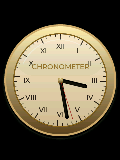
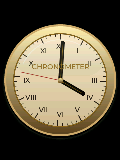
Style analog clock hands by skin

Changed region(s): [[0.3, 0.25, 0.725, 0.75], [0.175, 0.4375, 0.275, 0.4688], [0.6, 0.7188, 0.625, 0.75]]

diff --git a/src/examples/analog_clock_lvgl.py b/src/examples/analog_clock_lvgl.py
@@ -42,6 +42,7 @@ BUILTIN_SKINS = {
         "hands": 0x17100B,
         "second": 0x9E1D18,
         "accent": 0x8A651E,
+        "hand_style": "dauphine",
         "numerals": "roman",
         "brand": "CHRONOMETER",
     },
@@ -57,6 +58,7 @@ BUILTIN_SKINS = {
         "hands": 0xF4FFF8,
         "second": 0xFF6B24,
         "accent": 0x42D6B5,
+        "hand_style": "diver",
         "numerals": "quarters",
         "brand": "200 m  AUTOMATIC",
     },
@@ -72,6 +74,7 @@ BUILTIN_SKINS = {
         "hands": 0x151515,
         "second": 0xE32322,
         "accent": 0xE32322,
+        "hand_style": "railway",
         "numerals": "none",
         "brand": "HELVETICA",
     },
@@ -87,6 +90,7 @@ BUILTIN_SKINS = {
         "hands": 0xF5EED0,
         "second": 0xD47C2B,
         "accent": 0xC99A50,
+        "hand_style": "sword",
         "numerals": "arabic",
         "brand": "FLIEGER",
     },
@@ -104,6 +108,7 @@ BUILTIN_SKINS = {
         "hands": 0xF8E9B8,
         "second": 0xD36B42,
         "accent": 0xE7C568,
+        "hand_style": "skeleton",
         "numerals": "roman",
         "brand": "ART DECO",
     },
@@ -120,6 +125,7 @@ BUILTIN_SKINS = {
         "hands": 0x245478,
         "second": 0x245478,
         "accent": 0x725D29,
+        "hand_style": "breguet",
         "numerals": "roman",
         "brand": "PARIS",
     },
@@ -138,6 +144,7 @@ BUILTIN_SKINS = {
         "hands": 0x15212A,
         "second": 0x0077D9,
         "accent": 0x0077D9,
+        "hand_style": "baton",
         "numerals": "quarters",
         "brand": "METRO",
     },
@@ -153,6 +160,7 @@ BUILTIN_SKINS = {
         "hands": 0xF0D8CF,
         "second": 0xD889A8,
         "accent": 0xCF8F82,
+        "hand_style": "leaf",
         "numerals": "none",
         "brand": "NOCTURNE",
     },
@@ -517,15 +525,91 @@ class AnalogClock:
         return line
 
     def _make_hands(self, dial):
-        shadow_w = max(4, dial // 34)
-        self.hour_shadow = self._line(0x000000, shadow_w + 3)
-        self.minute_shadow = self._line(0x000000, max(3, shadow_w - 1) + 3)
-        self.hour_hand = self._line(self.skin["hands"], shadow_w)
-        self.minute_hand = self._line(self.skin["hands"], max(3, shadow_w - 1))
-        self.second_hand = self._line(self.skin["second"], max(1, dial // 115))
-        self.hour_length = dial * 27 // 100
-        self.minute_length = dial * 39 // 100
-        self.second_length = dial * 43 // 100
+        style = self.skin.get("hand_style", "baton")
+        hour_length = dial * 27 // 100
+        minute_length = dial * 39 // 100
+        second_length = dial * 43 // 100
+        hour_w = max(4, dial // 34)
+        minute_w = max(3, dial // 42)
+        second_w = max(1, dial // 115)
+        hands = self.skin["hands"]
+        accent = self.skin["accent"]
+        face = self.skin["face"]
+        second = self.skin["second"]
+        self.hand_layers = {"hour": [], "minute": [], "second": []}
+
+        def add(which, color, width, length):
+            self.hand_layers[which].append((self._line(color, max(1, width)), max(2, length)))
+
+        if style == "dauphine":
+            # Wide lower facets and fine full-length tips suggest tapered hands.
+            for which, length, width in (
+                ("hour", hour_length, hour_w),
+                ("minute", minute_length, minute_w),
+            ):
+                add(which, 0x090705, width + 4, length + 2)
+                add(which, hands, width + 1, length * 82 // 100)
+                add(which, accent, max(1, width // 3), length)
+        elif style == "diver":
+            # Heavy black outlines around luminous centers stay legible underwater.
+            for which, length, width in (
+                ("hour", hour_length, hour_w + 3),
+                ("minute", minute_length, minute_w + 2),
+            ):
+                add(which, 0x010304, width + 5, length + 2)
+                add(which, hands, width, length)
+                add(which, accent, max(1, width // 4), length * 84 // 100)
+        elif style == "railway":
+            # Restrained black batons and the iconic high-contrast red seconds hand.
+            add("hour", hands, hour_w + 1, hour_length)
+            add("minute", hands, minute_w, minute_length)
+        elif style == "sword":
+            # Dark edging, a broad pale blade, and a fine warm center ridge.
+            for which, length, width in (
+                ("hour", hour_length, hour_w + 1),
+                ("minute", minute_length, minute_w + 1),
+            ):
+                add(which, 0x030403, width + 5, length + 2)
+                add(which, hands, width + 1, length)
+                add(which, accent, max(1, width // 4), length * 90 // 100)
+        elif style == "skeleton":
+            # A face-colored channel cuts through a bright outlined framework.
+            for which, length, width in (
+                ("hour", hour_length, hour_w + 1),
+                ("minute", minute_length, minute_w + 1),
+            ):
+                add(which, accent, width + 5, length)
+                add(which, face, width, length * 91 // 100)
+                add(which, hands, max(1, width // 3), length)
+        elif style == "breguet":
+            # Fine heat-blued tips over a shorter, broader traditional body.
+            for which, length, width in (
+                ("hour", hour_length, hour_w),
+                ("minute", minute_length, minute_w),
+            ):
+                add(which, 0x101820, width + 3, length + 1)
+                add(which, hands, width, length)
+                add(which, self.skin["face_grad"], max(1, width // 3), length * 68 // 100)
+        elif style == "leaf":
+            # Layered short and long strokes produce a soft leaf-like silhouette.
+            for which, length, width in (
+                ("hour", hour_length, hour_w),
+                ("minute", minute_length, minute_w),
+            ):
+                add(which, 0x080509, width + 4, length + 1)
+                add(which, hands, width + 2, length * 76 // 100)
+                add(which, hands, max(1, width // 2), length)
+        else:  # geometric baton
+            for which, length, width in (
+                ("hour", hour_length, hour_w + 2),
+                ("minute", minute_length, minute_w + 1),
+            ):
+                add(which, 0x05080A, width + 4, length + 2)
+                add(which, hands, width, length)
+
+        if style in ("diver", "sword", "skeleton", "baton"):
+            add("second", 0x050505, second_w + 2, second_length + 1)
+        add("second", second, second_w, second_length)
 
     def _make_hub(self, dial):
         self.hub = lv.obj(self.face)
@@ -565,14 +649,13 @@ class AnalogClock:
         second_value = second * 12
         minute_value = minute * 12 + second // 5
         hour_value = (hour % 12) * 60 + minute
-        for hand, length, value in (
-            (self.hour_shadow, self.hour_length + 2, hour_value),
-            (self.hour_hand, self.hour_length, hour_value),
-            (self.minute_shadow, self.minute_length + 2, minute_value),
-            (self.minute_hand, self.minute_length, minute_value),
-            (self.second_hand, self.second_length, second_value),
+        for which, value in (
+            ("hour", hour_value),
+            ("minute", minute_value),
+            ("second", second_value),
         ):
-            self.scale.set_line_needle_value(hand, length, value)
+            for hand, length in self.hand_layers[which]:
+                self.scale.set_line_needle_value(hand, length, value)
 
 
 class ClockSkinPicker:
